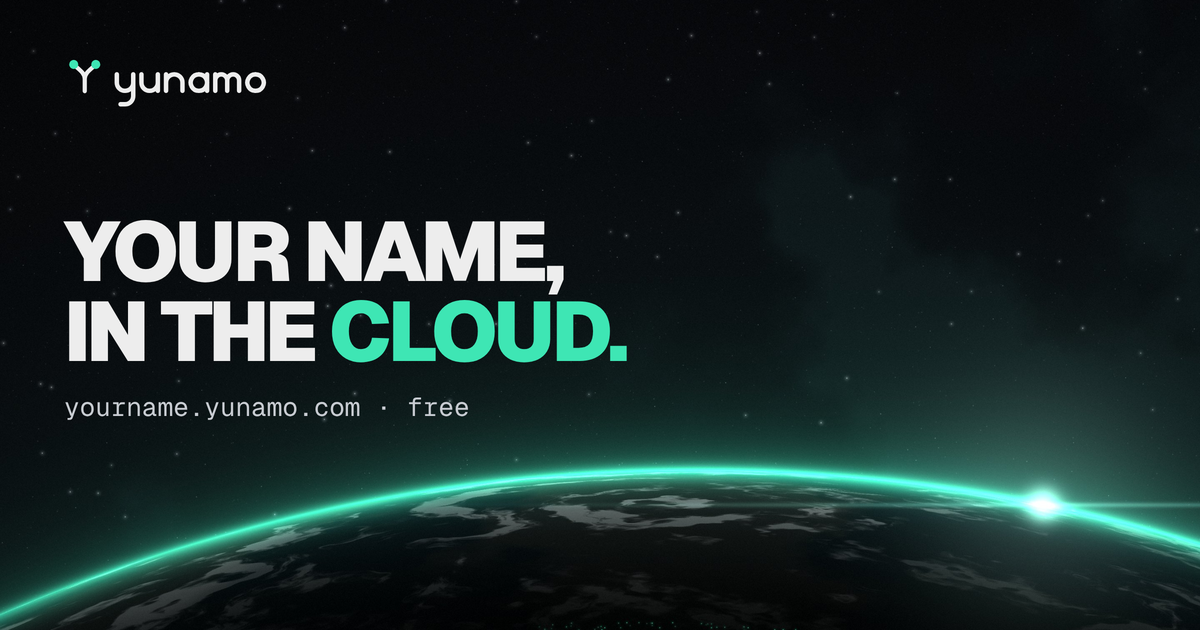
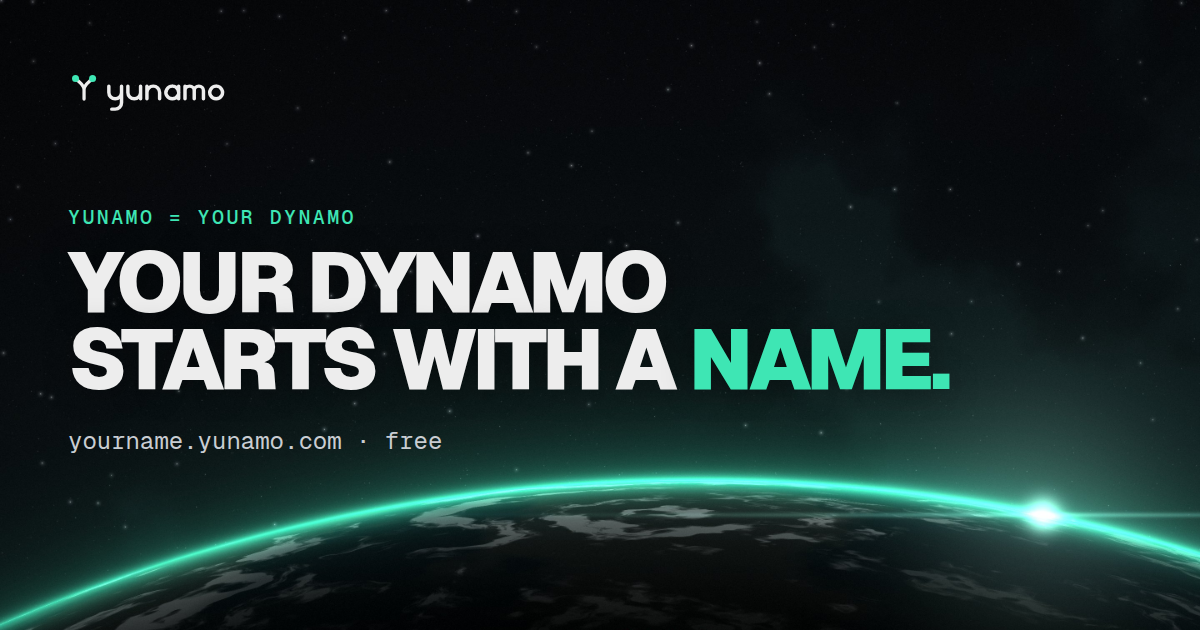
feat: reframe Yunamo as "your dynamo" and fix Chinese typography
The home hero, section titles, CTA, footer copy, page metadata, share
image and SITE_DESCRIPTION default now carry the brand meaning
"Yunamo = your dynamo / 你的动力源" with the headline "Your dynamo starts
with a name / 你的动力源，从一个名字开始。".

Chinese headings no longer collide: under :lang(zh) the display styles
drop the sub-1 line-height and negative tracking, hero/CTA/404 titles use
smaller CJK sizes, and both font stacks list Chinese faces before the
generic families so Han text never falls back to a serif font.

diff --git a/web/src/locales/extra/website-public.js b/web/src/locales/extra/website-public.js
@@ -1,10 +1,11 @@
 export default {
   'en-US': {
     home2: {
-      titleLead: 'Your name,',
-      titleMid: 'in the',
-      titleAccent: 'cloud.',
-      lead: 'Free subdomains for developers, students and open source. Point {example} at any host. No credit card needed.',
+      brandEyebrow: 'Yunamo · Your dynamo',
+      titleLead: 'Your dynamo',
+      titleMid: 'starts with a ',
+      titleAccent: 'name.',
+      lead: 'Free subdomains that power side projects, demos and open source. Point {example} at any host and go live in minutes. No credit card needed.',
       checkLabel: 'Check availability',
       checkButton: 'Check availability',
       checking: 'Checking',
@@ -28,7 +29,7 @@ export default {
       worksWith: 'Works with',
       anyVps: 'Any VPS',
       featuresEyebrow: 'Features',
-      featuresTitle: 'Everything a side project needs.',
+      featuresTitle: 'Everything that keeps a project running.',
       fDnsTitle: 'Full DNS control',
       fDnsDesc: 'A, AAAA, CNAME, TXT and MX records from a clean dashboard. Or delegate to your own nameservers.',
       propagated: 'propagated',
@@ -42,7 +43,7 @@ export default {
       fOpenDesc: 'Public code, a public status page and documented infrastructure.',
       fOpenLink: 'View on GitHub',
       howEyebrow: 'How it works',
-      howTitle: 'Idea to URL in three steps.',
+      howTitle: 'From spark to live URL in three steps.',
       step1Title: 'Search a name',
       step1Desc: 'Type what you want in front of {suffix}.',
       step2Title: 'Sign in',
@@ -64,7 +65,7 @@ export default {
       faqRulesA: 'Phishing, malware, scams, spam and impersonation. Read the {policy} or {report}.',
       faqPolicyLink: 'acceptable use policy',
       faqReportLink: 'report abuse',
-      ctaTitle: 'Ship it under a name people remember.',
+      ctaTitle: 'Power up your next idea.',
       ctaPrimary: 'Claim your subdomain',
       ctaDocs: 'Read the docs',
     },
@@ -246,10 +247,11 @@ export default {
   },
   'zh-CN': {
     home2: {
-      titleLead: '你的名字，',
-      titleMid: '就在',
-      titleAccent: '云端。',
-      lead: '为开发者、学生和开源项目提供的免费子域名。把 {example} 指向任何主机，无需信用卡。',
+      brandEyebrow: 'Yunamo · 你的动力源',
+      titleLead: '你的动力源，',
+      titleMid: '从一个',
+      titleAccent: '名字开始。',
+      lead: '免费子域名，为副业项目、演示和开源作品提供动力。把 {example} 指向任何主机，几分钟就能上线，无需信用卡。',
       checkLabel: '查询可用性',
       checkButton: '查询可用性',
       checking: '查询中',
@@ -273,13 +275,13 @@ export default {
       worksWith: '适用于',
       anyVps: '任意 VPS',
       featuresEyebrow: '功能',
-      featuresTitle: '副业项目需要的一切。',
+      featuresTitle: '让项目持续运转的一切。',
       fDnsTitle: '完整的 DNS 控制',
       fDnsDesc: '在简洁的控制台里管理 A、AAAA、CNAME、TXT 和 MX 记录，也可以委派给你自己的 DNS 服务器。',
       propagated: '已生效',
       fFreeTitle: '真的免费',
       fFreeDesc: '没有试用期，无需信用卡，也不会往你的网站里插广告。',
-      fLiveTitle: '几分钟内生效',
+      fLiveTitle: '几分钟内上线',
       fLiveDesc: '大多数记录修改会在几分钟内生效。',
       fTrustTitle: '值得信任的名字',
       fTrustDesc: '清晰的滥用政策和快速处理，让每个名字都远离黑名单。',
@@ -287,7 +289,7 @@ export default {
       fOpenDesc: '公开的代码、公开的状态页和有文档的基础设施。',
       fOpenLink: '在 GitHub 查看',
       howEyebrow: '使用方式',
-      howTitle: '从想法到网址，只需三步。',
+      howTitle: '从灵感到上线，只需三步。',
       step1Title: '搜索名字',
       step1Desc: '在 {suffix} 前面输入你想要的名字。',
       step2Title: '登录',
@@ -309,7 +311,7 @@ export default {
       faqRulesA: '钓鱼、恶意软件、诈骗、垃圾信息和冒充他人。请阅读{policy}，或{report}。',
       faqPolicyLink: '使用规范',
       faqReportLink: '举报滥用',
-      ctaTitle: '用一个让人记得住的名字发布它。',
+      ctaTitle: '为下一个想法，接上动力。',
       ctaPrimary: '领取你的子域名',
       ctaDocs: '阅读文档',
     },

diff --git a/web/src/views/Home.vue b/web/src/views/Home.vue
@@ -16,9 +16,10 @@
 
       <div class="y-container relative flex flex-wrap items-center gap-x-16 gap-y-12 py-20 sm:py-24">
         <div class="flex min-w-0 flex-1 flex-col gap-6" style="flex-basis: 420px;">
-          <h1 class="y-headline text-[clamp(2.75rem,6.4vw,5.25rem)]" style="text-shadow: 0 2px 30px rgb(0 0 0 / 0.35);">
+          <p class="y-eyebrow" style="text-shadow: 0 1px 12px rgb(0 0 0 / 0.5);">{{ $t('home2.brandEyebrow') }}</p>
+          <h1 class="y-headline -mt-2 text-[clamp(2.5rem,4.6vw,4rem)] [&:lang(zh)]:text-[clamp(2.25rem,4.6vw,3.75rem)]" style="text-shadow: 0 2px 30px rgb(0 0 0 / 0.35);">
             {{ $t('home2.titleLead') }}<br />
-            {{ $t('home2.titleMid') }} <em>{{ $t('home2.titleAccent') }}</em>
+            {{ $t('home2.titleMid') }}<em>{{ $t('home2.titleAccent') }}</em>
           </h1>
           <p class="max-w-[500px] text-lead text-y-text/85">
             {{ $t('home2.lead', { example: `yourname.${rootLabel}` }) }}
@@ -286,7 +287,7 @@
     <section class="y-container pb-24">
       <div class="y-card relative isolate overflow-hidden px-6 py-16 text-center sm:py-20">
         <div class="y-glow pointer-events-none absolute -bottom-80 left-1/2 -z-10 h-[520px] w-[800px] -translate-x-1/2" aria-hidden="true"></div>
-        <h2 class="y-headline mx-auto max-w-[720px] text-[clamp(2rem,5vw,3.5rem)]">{{ $t('home2.ctaTitle') }}</h2>
+        <h2 class="y-headline mx-auto max-w-[720px] text-[clamp(2rem,5vw,3.5rem)] [&:lang(zh)]:text-[clamp(1.75rem,4vw,2.75rem)]">{{ $t('home2.ctaTitle') }}</h2>
         <div class="mt-6 flex flex-wrap items-center justify-center gap-3">
           <a href="#home-sub" class="btn btn-primary px-6" @click.prevent="focusSearch">{{ $t('home2.ctaPrimary') }}</a>
           <router-link :to="docsPath" class="btn btn-outline px-6">{{ $t('home2.ctaDocs') }}</router-link>

diff --git a/web/index.html b/web/index.html
@@ -3,8 +3,8 @@
   <head>
     <meta charset="UTF-8" />
     <meta name="viewport" content="width=device-width, initial-scale=1.0" />
-    <title>Yunamo · Free subdomains for builders</title>
-    <meta name="description" content="Claim a free subdomain like myproject.yunamo.com and point it at any host. No credit card, no lock-in." />
+    <title>Yunamo · Your dynamo starts with a name</title>
+    <meta name="description" content="Yunamo is your dynamo: claim a free subdomain like myproject.yunamo.com and point it at any host. No credit card, no lock-in." />
     <link rel="icon" href="/favicon.ico" sizes="48x48" />
     <link rel="icon" href="/icon.svg" type="image/svg+xml" />
     <link rel="apple-touch-icon" href="/apple-touch-icon.png" />
@@ -13,8 +13,8 @@
     <link rel="canonical" href="https://yunamo.com/" />
     <meta property="og:type" content="website" />
     <meta property="og:site_name" content="Yunamo" />
-    <meta property="og:title" content="Yunamo · Your name, in the cloud" />
-    <meta property="og:description" content="Free subdomains for builders. Claim myproject.yunamo.com and point it anywhere." />
+    <meta property="og:title" content="Yunamo · Your dynamo starts with a name" />
+    <meta property="og:description" content="Free subdomains that power every idea. Claim myproject.yunamo.com and point it anywhere." />
     <meta property="og:url" content="https://yunamo.com/" />
     <meta property="og:image" content="https://yunamo.com/og-image-1200x630.png" />
     <meta name="twitter:card" content="summary_large_image" />

diff --git a/web/src/locales/extra/shell.js b/web/src/locales/extra/shell.js
@@ -9,7 +9,7 @@ export default {
       workspace: 'Workspace',
       adminArea: 'Admin',
       overview: 'Overview',
-      tagline: 'Free subdomains for builders. Claim a name, point it anywhere.',
+      tagline: 'Yunamo, your dynamo. Free subdomains that put every idea online.',
       dnsRecords: 'DNS records',
       rights: 'All rights reserved.',
       mainNav: 'Main',
@@ -28,7 +28,7 @@ export default {
       abuseReports: 'Abuse reports',    },
     footer: {
       copyright: '© Yunamo. All rights reserved.',
-      description: 'Free subdomains for builders',
+      description: 'Your dynamo starts with a name',
     },
     notFound: {
       titleLead: 'Lost in',
@@ -47,7 +47,7 @@ export default {
       workspace: '工作区',
       adminArea: '管理',
       overview: '概览',
-      tagline: '为开发者提供的免费子域名。领一个名字，指向任何地方。',
+      tagline: 'Yunamo，你的动力源。为开发者提供免费子域名，让每个想法都能上线。',
       dnsRecords: 'DNS 记录',
       rights: '保留所有权利。',
       mainNav: '主导航',
@@ -66,7 +66,7 @@ export default {
       abuseReports: '滥用举报',    },
     footer: {
       copyright: '© Yunamo. 保留所有权利。',
-      description: '为开发者提供的免费子域名',
+      description: '你的动力源，从一个名字开始',
     },
     notFound: {
       titleLead: '迷失在',

diff --git a/web/src/locales/extra/landing.js b/web/src/locales/extra/landing.js
@@ -1,10 +1,10 @@
 export default {
   'en-US': {
     landing: {
-      eyebrow: 'Free subdomains for builders',
-      headlineLead: 'Your name,',
-      headlineMid: 'in the',
-      headlineAccent: 'cloud.',
+      eyebrow: 'Yunamo · Your dynamo',
+      headlineLead: 'Your dynamo',
+      headlineMid: 'starts with a ',
+      headlineAccent: 'name.',
       lead: 'Claim a free name like myproject.yunamo.com and point it at any host. No credit card, no lock-in.',
       placeholder: 'myproject',
       check: 'Check availability',
@@ -64,10 +64,10 @@ export default {
   },
   'zh-CN': {
     landing: {
-      eyebrow: '为开发者提供的免费子域名',
-      headlineLead: '你的名字，',
-      headlineMid: '就在',
-      headlineAccent: '云端。',
+      eyebrow: 'Yunamo · 你的动力源',
+      headlineLead: '你的动力源，',
+      headlineMid: '从一个',
+      headlineAccent: '名字开始。',
       lead: '免费领取 myproject.yunamo.com 这样的名字，指向任何主机。无需信用卡，不绑定服务商。',
       placeholder: 'myproject',
       check: '查询可用性',

diff --git a/web/tailwind.config.js b/web/tailwind.config.js
@@ -31,8 +31,10 @@ export default {
         },
       },
       fontFamily: {
-        sans: ['Geist', 'system-ui', '-apple-system', '"Segoe UI"', '"PingFang SC"', '"Microsoft YaHei"', 'sans-serif'],
-        mono: ['"Geist Mono"', 'ui-monospace', 'SFMono-Regular', 'Menlo', 'Consolas', 'monospace'],
+        // Geist and Geist Mono have no CJK glyphs; list the Chinese faces before the generic
+        // families so Han text never falls through to a serif or bitmap font (SimSun on Windows).
+        sans: ['Geist', '"PingFang SC"', '"HarmonyOS Sans SC"', '"Hiragino Sans GB"', '"Microsoft YaHei UI"', '"Microsoft YaHei"', '"Source Han Sans SC"', '"Noto Sans CJK SC"', '"Noto Sans SC"', 'system-ui', '-apple-system', '"Segoe UI"', 'sans-serif'],
+        mono: ['"Geist Mono"', 'ui-monospace', 'SFMono-Regular', 'Menlo', 'Consolas', '"PingFang SC"', '"Microsoft YaHei UI"', '"Microsoft YaHei"', '"Noto Sans CJK SC"', '"Noto Sans SC"', 'monospace'],
       },
       fontSize: {
         display: ['clamp(3rem, 7vw, 5.5rem)', { lineHeight: '0.98', letterSpacing: '-0.045em', fontWeight: '600' }],

diff --git a/web/src/style.css b/web/src/style.css
@@ -524,6 +524,35 @@
     box-shadow: 0 0 10px rgb(var(--y-mint) / 0.7);
   }
 }
+/* ---------- Chinese typography ----------
+   Han glyphs fill the whole em box and have no ascenders, case or kerning, so the Latin
+   display settings (line-height under 1, negative tracking) make Chinese lines collide. */
+:lang(zh) .y-headline {
+  font-weight: 800;
+  line-height: 1.16;
+  letter-spacing: 0.02em;
+}
+:lang(zh) :is(.y-title, .text-display, .text-h1, .text-h2) {
+  line-height: 1.28;
+  letter-spacing: 0.01em;
+}
+:lang(zh) :is(h1, h2, h3)[class*="leading-[1.0"],
+:lang(zh) :is(h1, h2, h3)[class*="leading-none"] {
+  line-height: 1.28;
+}
+:lang(zh) [class*="tracking-[-"] {
+  letter-spacing: 0;
+}
+:lang(zh) :is(.y-eyebrow, .y-label) {
+  letter-spacing: 0.04em;
+}
+:lang(zh) :is(.y-lead, .y-faq details > p) {
+  line-height: 1.8;
+}
+:lang(zh) :is(.y-headline, .y-title) {
+  line-break: strict;
+}
+
 @media (prefers-reduced-motion: reduce) {
   *, *::before, *::after {
     animation-duration: 0.001ms !important;

diff --git a/web/public/404.html b/web/public/404.html
@@ -13,7 +13,7 @@
   @font-face{font-family:"Geist Mono";src:url(/fonts/GeistMono-Regular.ttf) format("truetype");font-weight:400;font-display:swap}
   :root{color-scheme:dark}
   *{box-sizing:border-box}
-  body{margin:0;min-height:100vh;background:#0a0b0d;color:#ededed;font-family:Geist,system-ui,-apple-system,"Segoe UI",sans-serif;-webkit-font-smoothing:antialiased;display:flex;flex-direction:column;overflow-x:hidden}
+  body{margin:0;min-height:100vh;background:#0a0b0d;color:#ededed;font-family:Geist,"PingFang SC","Microsoft YaHei UI","Microsoft YaHei","Noto Sans CJK SC","Noto Sans SC",system-ui,-apple-system,"Segoe UI",sans-serif;-webkit-font-smoothing:antialiased;display:flex;flex-direction:column;overflow-x:hidden}
   header{padding:16px 24px}
   header img{height:30px;display:block}
   main{position:relative;flex:1;display:flex;flex-direction:column;align-items:center;justify-content:center;text-align:center;padding:48px 16px 220px;gap:20px;overflow:hidden}

diff --git a/web/src/views/NotFound.vue b/web/src/views/NotFound.vue
@@ -9,7 +9,7 @@
     />
     <div v-if="!isDark" class="y-dot-grid absolute inset-0 -z-10" aria-hidden="true"></div>
     <p class="font-mono text-sm tracking-[0.1em] text-y-mint-text">ERROR 404</p>
-    <h1 class="y-headline mt-5 text-[clamp(56px,12vw,160px)]">
+    <h1 class="y-headline mt-5 text-[clamp(56px,12vw,160px)] [&:lang(zh)]:text-[clamp(44px,8.5vw,112px)]">
       {{ $t('notFound.titleLead') }} <em>{{ $t('notFound.titleAccent') }}</em>
     </h1>
     <p class="mt-6 max-w-md text-lg leading-7 text-y-muted">

diff --git a/internal/config/config.go b/internal/config/config.go
@@ -241,7 +241,7 @@ func setDefaults() {
 	viper.SetDefault("SCANNER_TIMEOUT", 30)
 
 	viper.SetDefault("SITE_NAME", "Yunamo")
-	viper.SetDefault("SITE_DESCRIPTION", "Free subdomains for builders")
+	viper.SetDefault("SITE_DESCRIPTION", "Your dynamo starts with a name")
 	viper.SetDefault("FRONTEND_URL", "http://localhost:3001")
 	viper.SetDefault("PAYMENT_CALLBACK_URL", fmt.Sprintf("http://localhost:%s/api/payments/callback", viper.GetString("PORT")))
 	viper.SetDefault("PAYMENT_TEST_MODE", false)
